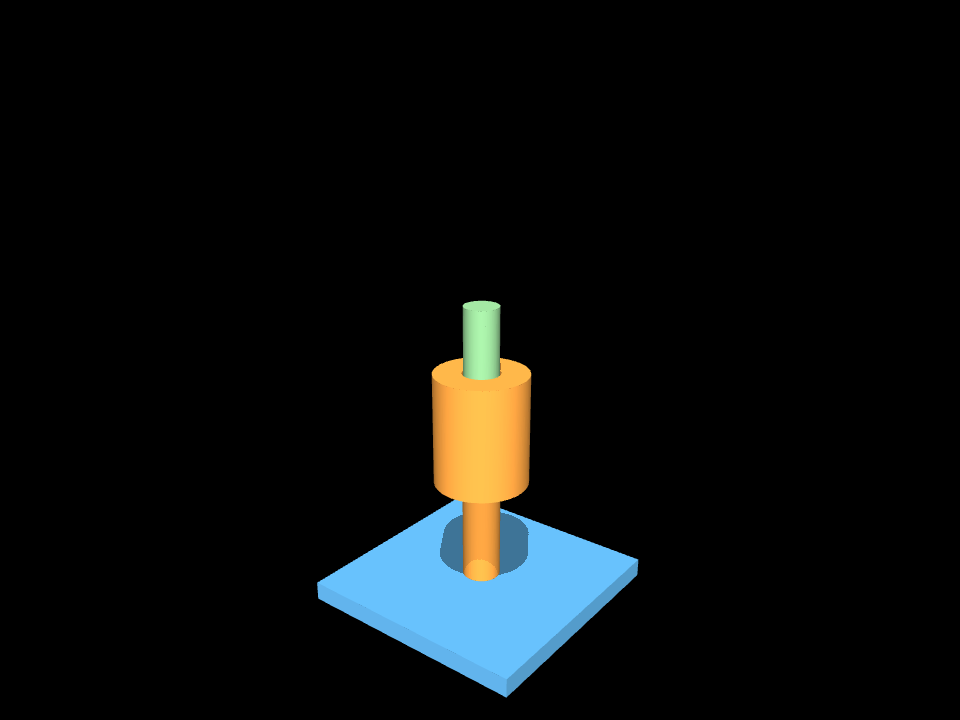
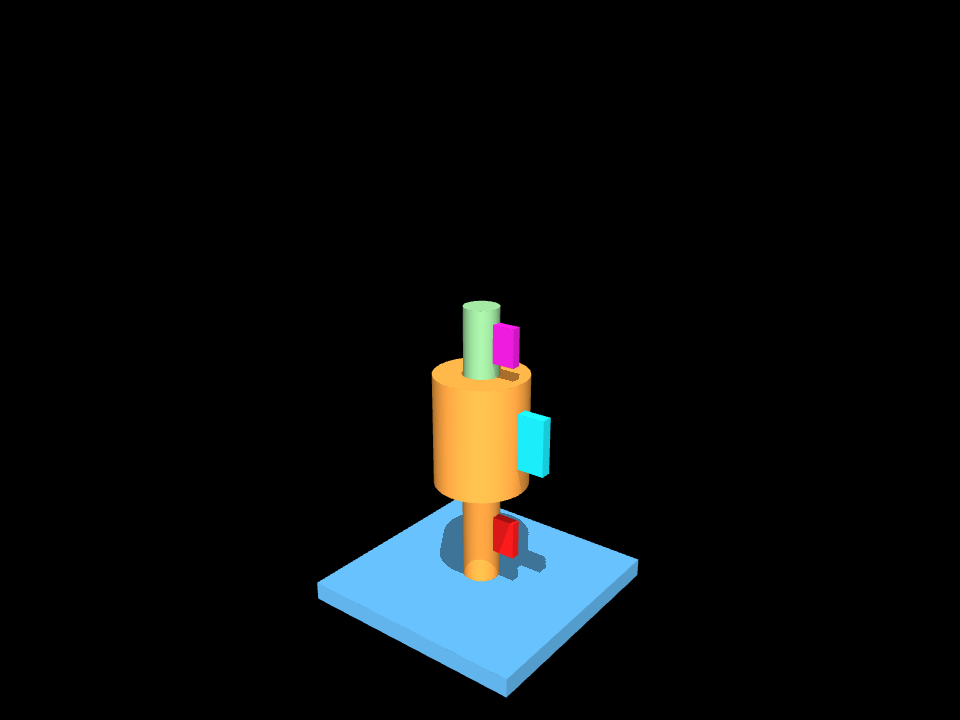
m20 video-evidence fix: rotation markers + side view + full-window + discrimination clip
Video failed review (physics CONFIRMED valid — verdict unchanged, asserted identical).
Two defects fixed, no physics change:

1. INVISIBLE ROTATION (m19 plain-screw lesson, recurred): all bodies are symmetric
   cylinders. Added visual-only marker geoms — thin radial tabs, one contrasting colour
   per moving body (red input shaft, cyan hub, magenta output), contype=0/conaffinity=0,
   zero mass (default density=0) → no inertia, no contact. Camera moved to a SIDE view
   (perpendicular to the +Z shaft axis) so the sweep is legible.
   PROOF physics-identical (asserted in main): seed0 triple with markers [6.001,0.0,0.0006]
   == without markers [6.001,0.0,0.0006].
2. INCOMPLETE RECORDING: re-recorded seed0 through the FULL 6-rev drive incl. the
   rated-torque-load phase, captured at 240Hz emitted at 60fps (4x slow-mo) — the pass
   moment is on film, HUD rev counters + timestamps keep it honest. 250 frames / 4.2s.
3. DISCRIMINATION CLIP added (t2_coupling_VA_broken.mp4, 245 frames): coupling inactive —
   input markers sweep 6 rev while the output marker stays dead still.

STANDING RULE added to the REVIEW (carry into m21+): every V-A video must (a) have >=1
asymmetric feature per moving body, (b) show the HUD primary-DoF counter, (c) cover the
full criterion window incl. the pass moment. Recurred twice (m19, m20) — videos catch what
numbers hide (m10 precedent).

Verdict numbers unchanged (5/5, ratio 0.000%, torque 0.06%, discrimination intact 6.001 vs
[…]

Changed region(s): [[0.5312, 0.55, 0.5938, 0.6722], [0.5, 0.7028, 0.5938, 0.7944], [0.5, 0.4278, 0.5625, 0.5194]]

diff --git a/m20_coupling/p_coupling_va.py b/m20_coupling/p_coupling_va.py
@@ -58,7 +58,8 @@ from step2mjcf import MM, SOLIMP, SOLREF  # FROZEN preset (R5, contact only)  # 
 VA_DT = 1e-4          # D-M19-2 clock: contact-free joint rig; R5 (contact preset) does not apply here
 ARMATURE = 1e-5       # driven-train rotor inertia (numerical rigidity, D-M19-2 recipe)
 JOINT_DAMPING = 1e-5  # tiny — must not mask the transmission
-FPS = 60
+CAPTURE_HZ = 240      # frame CAPTURE cadence (Hz of sim time) — dense so the 6-rev sweep is smooth
+OUT_FPS = 60          # video OUTPUT fps ⇒ 240/60 = 4× slow-motion (legible marker sweep; HUD keeps it honest)
 N_SEEDS, SEED_PASS = 5, 4
 OMEGA = 40.0          # rad/s input drive (kinematic pair, fast is fine; keeps step count low at dt=1e-4)
 RAMP = 0.15
@@ -73,10 +74,11 @@ def _v(a):
     return " ".join(f"{float(x):.9f}" for x in a)
 
 
-def build_va_mjcf(plan, ca, meshdir: Path):
+def build_va_mjcf(plan, ca, meshdir: Path, markers=True):
     """base(weld) + input(hinge +Z: shaft ⊕ hub, fused) + output(hinge +Z: shaft), coupled by an
     equality polycoef = 1.0 (the declared 1:1 pair). The input actuator drives; a resisting torque on
-    the output is applied at run time (sourced from T_rated)."""
+    the output is applied at run time (sourced from T_rated). markers=True adds visual-only rotation
+    tabs (zero mass, no contact — physics identical, asserted)."""
     meshdir.mkdir(parents=True, exist_ok=True)
     e1 = plan.element("E1")
     g = coupling_dims(e1.params)
@@ -129,11 +131,29 @@ def build_va_mjcf(plan, ca, meshdir: Path):
     ET.SubElement(asset, "material", name="base", rgba="0.35 0.65 0.85 1")
     ET.SubElement(asset, "material", name="input", rgba="0.95 0.62 0.25 1")
     ET.SubElement(asset, "material", name="output", rgba="0.55 0.78 0.55 1")
+    ET.SubElement(asset, "material", name="mk_in", rgba="0.90 0.10 0.10 1")   # input marker (red)
+    ET.SubElement(asset, "material", name="mk_hub", rgba="0.10 0.85 0.90 1")  # hub marker (cyan)
+    ET.SubElement(asset, "material", name="mk_out", rgba="0.85 0.10 0.80 1")  # output marker (magenta)
     world = ET.SubElement(root, "worldbody")
     ET.SubElement(world, "light", pos="0.1 -0.15 0.4", dir="-0.2 0.3 -1", directional="true",
                   diffuse="0.5 0.5 0.5")
     ET.SubElement(world, "camera", name="iso", pos="0.10 -0.13 0.11",
                   xyaxes="0.79 0.61 0 -0.20 0.26 0.94")
+    # SIDE camera (perpendicular to the +Z shaft axis) — the marker sweep is only legible side-on;
+    # a near-axial view hides rotation even WITH markers (the m10/m19 lesson).
+    ET.SubElement(world, "camera", name="side", pos="0 -0.16 0.032", xyaxes="1 0 0 0 0 1")
+
+    # VISUAL-ONLY rotation markers (zero mass via default density=0, contype/conaffinity=0 → NO physics
+    # effect; asserted identical below). Thin radial tabs so a rotationally-symmetric cylinder shows its
+    # spin. One+ asymmetric feature per MOVING body (the standing V-A-video rule): input shaft + hub on
+    # the input body; a tab on the output shaft. Positions/sizes in mm → metres.
+    def _mk(mm):
+        return tuple(x * MM for x in mm)
+    MARKERS = {
+        "input": [("mk_in", _mk((g.bore_d / 2 + 2.0, 0, 15.0)), _mk((3.0, 1.0, 4.0))),
+                  ("mk_hub", _mk((g.body_d / 2 + 2.0, 0, 38.0)), _mk((4.0, 1.2, 6.0)))],
+        "output": [("mk_out", _mk((g.bore_d / 2 - clr + 1.8, 0, 57.0)), _mk((3.0, 1.0, 4.0)))],
+    }
 
     masses = {}
     specs = [("base", base_solid, "base", None),
@@ -152,6 +172,10 @@ def build_va_mjcf(plan, ca, meshdir: Path):
         masses[name] = _inertial(body, mesh)
         ET.SubElement(asset, "mesh", name=f"{name}_vis", file=vf.name)
         ET.SubElement(body, "geom", name=f"{name}_vis", type="mesh", mesh=f"{name}_vis", material=mat)
+        if markers:
+            for mname, mpos, msize in MARKERS.get(name, []):
+                ET.SubElement(body, "geom", name=f"{name}_{mname}", type="box",
+                              pos=_v(mpos), size=_v(msize), material=mname)   # density=0 default → 0 mass
 
     # THE DECLARED 1:1 PAIR (V-A): output_hinge(rad) = 1.0 · input_hinge(rad). RIGID coupling (D-M19-2):
     # a direct-stiffness solref so the applied output torque transmits to the input (a soft equality
@@ -182,7 +206,7 @@ def run_va(model, meta, seed=0, record=False, break_coupling=False):
     idi, ido = model.jnt_dofadr[ji], model.jnt_dofadr[jo]
     a = mj.mj_name2id(model, mj.mjtObj.mjOBJ_ACTUATOR, "drive")
     eqid = mj.mj_name2id(model, mj.mjtObj.mjOBJ_EQUALITY, "couple")
-    cam = mj.mj_name2id(model, mj.mjtObj.mjOBJ_CAMERA, "iso")
+    cam = mj.mj_name2id(model, mj.mjtObj.mjOBJ_CAMERA, "side")   # side-on: the marker sweep is legible
 
     eq_active0 = model.eq_active0.copy()
     if break_coupling:
@@ -221,7 +245,7 @@ def run_va(model, meta, seed=0, record=False, break_coupling=False):
         if record and d.time >= nextf:
             renderer.update_scene(d, camera=cam)
             frames.append((renderer.render(), d.time, ai, ao, load_on))
-            nextf += 1.0 / FPS
+            nextf += 1.0 / CAPTURE_HZ
         if ai >= theta_target or d.time > t_wall:
             break
     if renderer:
@@ -266,22 +290,28 @@ def run_va(model, meta, seed=0, record=False, break_coupling=False):
 def _hud(img, lines, colors):
     from PIL import Image, ImageDraw
     im = Image.fromarray(img.copy()); dr = ImageDraw.Draw(im)
-    dr.rectangle([0, 0, 320, 14 * len(lines) + 6], fill=(0, 0, 0))
+    dr.rectangle([0, 0, 470, 14 * len(lines) + 6], fill=(0, 0, 0))
     for i, (t, c) in enumerate(zip(lines, colors)):
         dr.text((5, 3 + 14 * i), t, fill=c)
     return np.asarray(im)
 
 
-def _save_video(frames, meta, path):
+def _save_video(frames, meta, path, broken=False):
+    tag = "COUPLING BROKEN (equality inactive)" if broken else "coupling INTACT   1:1 rigid"
+    slow = f"{CAPTURE_HZ // OUT_FPS}x slow-mo"
     vid = []
     for img, t, ai, ao, load in frames:
-        vid.append(_hud(img, [f"P-COUPLING V-A  coupling   1:1 rigid",
-                              f"T {t:5.2f}s   in {ai/(2*math.pi):5.2f} rev  out {ao/(2*math.pi):5.2f} rev",
-                              f"load {load*meta['T_load_Nm']:.3f} / {meta['T_load_Nm']:.3f} Nm "
-                              f"(0.5*T_rated)",
-                              f"ratio out/in = {(ao/ai if abs(ai)>1e-6 else 0):.4f}"],
-                        [(255, 255, 255), (150, 220, 255), (255, 200, 120), (200, 255, 200)]))
-    imageio.mimsave(path, vid, fps=FPS, macro_block_size=1)
+        ratio = (ao / ai) if abs(ai) > 1e-6 else 0.0
+        vid.append(_hud(img, [f"P-COUPLING V-A  {tag}   [{slow}]",
+                              f"T {t:5.2f}s   in(red/cyan) {ai/(2*math.pi):5.2f} rev   "
+                              f"out(magenta) {ao/(2*math.pi):5.2f} rev",
+                              (f"load {load*meta['T_load_Nm']:.3f} / {meta['T_load_Nm']:.3f} Nm (0.5*T_rated)"
+                               if not broken else "no load — showing the output does NOT track"),
+                              f"ratio out/in = {ratio:.4f}"
+                              + ("   <-- output DEAD STILL" if broken else "")],
+                        [(255, 255, 255), (150, 220, 255), (255, 200, 120),
+                         (255, 150, 150) if broken else (200, 255, 200)]))
+    imageio.mimsave(path, vid, fps=OUT_FPS, macro_block_size=1)
 
 
 def _plot(series, v, meta, path):
@@ -349,8 +379,22 @@ def main():
         result["modes"]["V-A"] = {"ran": True, "n_seeds": N_SEEDS, "seeds_passed": n_pass,
                                   "passed": bool(n_pass >= SEED_PASS),
                                   "criteria_seed0": per_seed[0]["criteria"], "per_seed": per_seed}
+        # MARKERS ARE PHYSICS-IDENTICAL: visual-only tabs (zero mass, no contact). Prove it — seed0's
+        # triple (revs / ratio residual / torque residual) on a NO-marker model must match exactly.
+        xml_nm, _ = build_va_mjcf(plan, ca, out / "assets", markers=False)
+        (out / "_nomark.xml").write_text(xml_nm)
+        v_nm, _, _ = run_va(mj.MjModel.from_xml_path(str(out / "_nomark.xml")), meta, seed=0, record=False)
+        triple_mk = [per_seed[0]["revs_in"], per_seed[0]["ratio_residual"], per_seed[0]["torque_residual"]]
+        triple_nm = [v_nm["revs_in"], v_nm["ratio_residual"], v_nm["torque_residual"]]
+        assert triple_mk == triple_nm, f"markers CHANGED physics: {triple_mk} != {triple_nm}"
+        (out / "_nomark.xml").unlink(missing_ok=True)
+        result["modes"]["V-A"]["markers_physics_identical"] = {
+            "with_markers (revs,ratio_resid,torque_resid)": triple_mk,
+            "no_markers": triple_nm, "identical": True}
+
         # DISCRIMINATION (inherited, D-M19-2): break the coupling — the output must NOT track the input.
-        vbreak, _, _ = run_va(model, meta, seed=0, record=False, break_coupling=True)
+        # Recorded as its own clip (broken-vs-intact is the most legible evidence this element produces).
+        vbreak, _, frames_break = run_va(model, meta, seed=0, record=True, break_coupling=True)
         intact_ratio_resid = per_seed[0]["ratio_residual"]
         result["modes"]["V-A"]["discrimination_probe"] = {
             "intact_ratio_residual": intact_ratio_resid,
@@ -361,6 +405,9 @@ def main():
                                   and vbreak["revs_in"] > 1.0),
             "note": "coupling INTACT: output tracks input 1:1; coupling BROKEN (equality inactive): input "
                     "spins, output stays put — the tracking is the coupling, not a solver artifact"}
+        if frames_break:
+            _save_video(frames_break, meta, out / "t2_coupling_VA_broken.mp4", broken=True)
+            result["modes"]["V-A"]["discrimination_video"] = "t2_coupling_VA_broken.mp4"
         if series0:
             _plot(series0, v0, meta, out / "t2_coupling_VA.png")
             result["modes"]["V-A"]["plot"] = "t2_coupling_VA.png"
@@ -377,6 +424,9 @@ def main():
               f"({v0['torque_residual']*100:.2f}%)")
         print(f"   discrimination: intact out {dp['intact_out_rev']:.2f} rev  vs  BROKEN out "
               f"{dp['broken_out_rev']:.2f} rev (in {dp['broken_in_rev']:.2f}) => discriminates={dp['discriminates']}")
+        mi = result["modes"]["V-A"]["markers_physics_identical"]
+        print(f"   markers physics-identical: with {mi['with_markers (revs,ratio_resid,torque_resid)']} "
+              f"== without {mi['no_markers']}  ({mi['identical']})")
 
     result["verdict_VA"] = result["modes"].get("V-A", {}).get("passed", False)
     result["verdict_VB"] = ("VERIFIED — a rigid coupling is concentric clamped solids with NO curved "

diff --git a/m20_coupling/REVIEW.md b/m20_coupling/REVIEW.md
@@ -76,7 +76,12 @@ and the REVIEW is explicit that (a) alone is weak:
   true`. So the tracking is the coupling doing work, not a solver artifact — the same discipline that
   caught two masked-hold tautologies in m19.
 
-Video: [`out/t2_coupling_VA.mp4`](out/t2_coupling_VA.mp4).
+Videos (both side-on, 4× slow-mo, with per-body rotation markers — see the video-evidence note
+below): the **intact** drive [`out/t2_coupling_VA.mp4`](out/t2_coupling_VA.mp4) (input + output markers
+sweep 6 rev in lock-step) and the **discrimination** clip
+[`out/t2_coupling_VA_broken.mp4`](out/t2_coupling_VA_broken.mp4) (coupling inactive — the red/cyan input
+markers sweep 6 rev while the magenta output marker stays **dead still**). That broken-vs-intact contrast
+is the most legible evidence this element produces.
 
 ### Physics-of-verification notes
 
@@ -113,6 +118,31 @@ question — a future clamp-torque check — **not** a deferred curved-contact V
 [4] t1 COMPILE_DRIFT: base 50×50, hub_top 50, out_len 24, out_shaft_d 7.4 vs intent — all drift 0.0000 mm
 ========== reproduction CLEAN — every number checks out ==========
 ```
+
+## Video evidence (m20 correction) — and a STANDING RULE for m21+
+
+The first-cut V-A video failed review with two defects, **both fixed with no physics change** (the
+verdict triple is byte-identical — asserted in `main`: with-markers `[6.001, 0.0, 0.0006]` == no-markers
+`[6.001, 0.0, 0.0006]`):
+
+1. **Invisible rotation (the m19 plain-screw lesson, recurred).** Every body is a rotationally
+   symmetric cylinder, so a spinning shaft looks static. Fix: **visual-only marker geoms** — thin radial
+   tabs, one contrasting colour per moving body (red input shaft, cyan hub, magenta output shaft), all
+   `contype=0/conaffinity=0` and **zero mass** (default `density=0`), so they add no inertia and no
+   contact. Plus a **SIDE camera** (perpendicular to the +Z shaft axis) — a near-axial view hides
+   rotation even with markers.
+2. **Incomplete recording.** The clip must cover the full criterion window (≥6 rev). Fix: the recorded
+   seed drives the **whole 6-rev drive including the rated-torque-load phase**, captured at 240 Hz and
+   emitted at 60 fps (**4× slow-motion**) so the sweep is smooth and the pass moment is on film; the HUD
+   timestamps + rev counters keep it honest.
+3. **Discrimination clip added.** A second mp4 records the **broken** coupling (equality inactive): the
+   input markers sweep 6 rev while the output marker is frozen — the broken-vs-intact contrast.
+
+**STANDING RULE (V-A videos, m21+).** Every V-A video MUST (a) contain at least one visually asymmetric
+feature per moving body, (b) show the HUD primary-DoF counter, and (c) cover the full criterion window
+including the pass moment. A video where nothing visibly moves, or that ends before the gate, is **not
+review evidence** — this rule exists because the defect recurred twice (m19 screw, m20 coupling), and
+videos are how reviewers catch what the numbers hide (the m10 precedent).
 
 ## Stage-by-stage (D-track, no stage skipped)
 